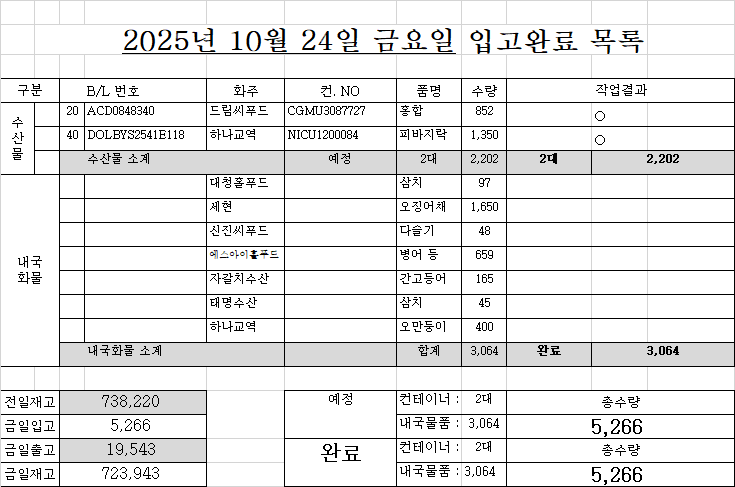
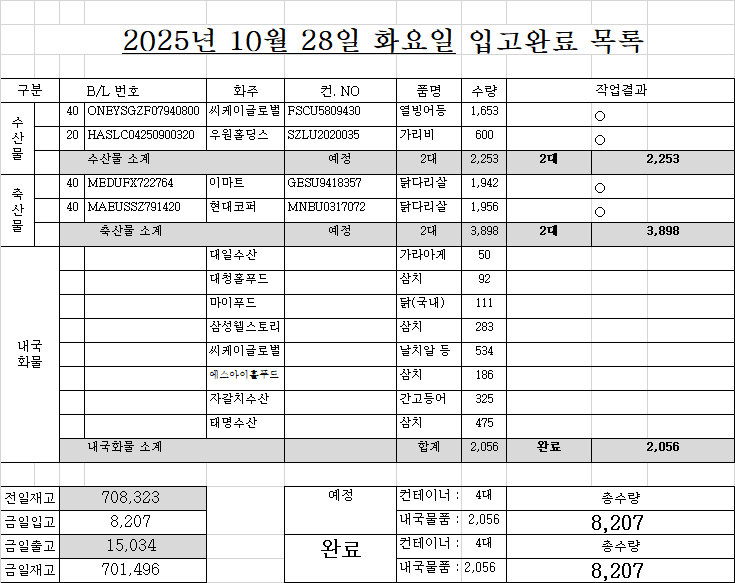
ㄴㅇㄹㄴㅇㄹㄴㅇㄹㄴㅇㄹ

diff --git a/list.html b/list.html
@@ -99,9 +99,9 @@
         10.20월 선적예정 (10.13월,검사)
       </div>
     </div>
-    <div><button>10월24일</button><button></button>
-      <div class="일별메모모두감싸기">강해무역 삼치 10/4,11입고분, 3F,4F,5F,8F 688개, 베트남 <br>
-        10.16(목)검사, 24일(금) 선적예정, 개근내역서 수품원 제출(금까지)
+    <div><button>10월28일</button><button></button>
+      <div class="일별메모모두감싸기">
+        선민관세사, 세현꺼 베트남 갈거 있다고 주소 물어봄
       </div>
     </div>
     <div><button>월일</button><button></button>
@@ -122,69 +122,89 @@
 </div>
 <!-- ★★★★★★ 따로 빼 놔야한다. 복붙하면 첫칸 비어도 되는데, 여기서는 첫칸비우면 당겨진다. -->
 <!-- ★ 엑셀범위를 브라우저 textarea에 붙여넣으면 첫셀 비어도 제대로 되는데... HTML에 붙여놓은 자료는 처음셀이 비어있으면 당겨짐 -->
-<div class="d-none" id="원본text_리스트1부터w요약열까지">작성	면허	B/LNO.	화주	컨테이너NO.	품명	수량	반입NO.	입항일	구분	도착일	도착시간	구분	운.도VBA	10/24 금 16:27	화찰BL	화찰 선명	화물관리번호	화찰수량	화찰중량	화찰입항	리스트시트기준열	
-1		041FX04737	우원홀딩스	WHLU7422502	새우	708 	BPT감만	10/23	1			20 	BPT감만			WAN HAI 289					10/24 금 16:27	
-1	○	MEDUFX722632	이마트	MSCU7432975	닭다리	1,943 	PNC	10/22	2				PNC		MEDUFX722632	MSC SHAULA	25MSCU4369I-0062-	1,943 	24,263.41 	2025.10.23	조회정보	
-1	○	MEDUFX722657	이마트	TEMU9235260	닭다리	1,939 	PNC	10/22	2				PNC		MEDUFX722657	MSC SHAULA	25MSCU4369I-0065-	1,939 	24,213.46 	2025.10.23	적재	57 
-		HDMUSAOA91343209	마이푸드	HMMU5420623	닭다리살	1,960 	HPNT	10/12	2				HPNT			HMM OCEAN					4,617 	3줄
-		HDMUSAOA91343212	마이푸드	HDMU5568356	닭다리살	1,960 	HPNT	10/12	2				HPNT			HMM OCEAN					6,156 	4줄
-		HCPUS2510056	KSL교역	SZLU9537930	삼치,대구포	2,080 	????(ONE).BPT신선대	10/25	1	ONE			????(ONE).BPT신선대			KMTC DALIAN					7,695 	5줄
-		EGLV360500135103	대상 주식회사	EMCU5608156	닭장각	1,568 	BPT감만	10/25	2				BPT감만			RDO FAVOUR					9,234 	6줄
-		EGLV360500135112	수월한	EMCU5375780	닭다리살	1,960 		10/25	2							 RDO FAVOUR						
-		MAEUJBS284580	수월한	MNBU3833719	닭다리살	1,958 	PNC	10/25	2				PNC			GRASMERE MAERSK					출고/입고 4주간	
-		MAEUJBS284918	대상 주식회사	MNBU3486116	닭발	1,566 	PNC	10/26	2				PNC			NORDAGER MAERSK					1일 7/5	5일줄
-		ONEYSAOF44750704	대상 주식회사	TCLU1352196	닭장각	1,568 	DGT	10/26	2				DGT			HYUNDAI PREMIUM(SX2)					15,712 	51
-		ONEYSAOF46695303	대상 주식회사	TTNU8874802	닭근위	1,568 	DGT	10/26	2				DGT			HYUNDAI PREMIUM(SX2)					14,483 	47.1
-		ONEYSAOF44750700	수월한	BMOU9857022	닭다리살	1,960 	DGT	10/26	2				DGT			HYUNDAI PREMIUM(SX2)					내국제외	
-		ONEYSAOF44750703	수월한	FSCU5793570	닭다리살	1,960 	DGT	10/26	2				DGT			HYUNDAI PREMIUM(SX2)					구분	대수
-		MEDUFX722764	이마트	GESU9418357	닭다리살	1,942 		10/26	2												수산	23
-		MEDUJJ087892	대상 주식회사	MEDU9620031	닭다리살	1,967 		10/27	2							SEASPAN ZAMBEZI					축산	39
-		ONEYSAOF42906801	수월한	SEGU9276513	닭다리살	1,960 	PNIT	10/27	2				PNIT			BUENAVENTURA EXPRESS					합계	62
-		DJSCYOK250003368	씨케이글로벌	DJLU2900218	연어알	134 		10/27	1			20 										
-		MAEUSSZ791420	현대코퍼	MNBU0317072	닭다리살	1,956 		10/27	2												화주별 요약	
-		KHHBUS2510013	바다사랑	FSCU5840517	꽁치	2,300 		10/28	1												화주	대수
-		KHHBUS2510013	바다사랑	SEGU9801680	꽁치	2,315 		10/28	1												수월한	13
-		KHHBUS2510014	바다사랑	FSCU5840137	꽁치	2,330 		10/28	1												씨케이글로벌	7
-		KHHBUS2510014	바다사랑	FSCU5841827	꽁치	2,330 		10/28	1												바다사랑	6
-		KHHBUS2510014	바다사랑	OTPU6604930	꽁치	2,340 		10/28	1												대상 주식회사	5
-		KHHBUS2510014	바다사랑	OTPU6608370	꽁치	2,310 		10/28	1												우원홀딩스	4
-		ONEYSGZF07940800	씨케이글로벌	FSCU5809430	열빙어등	1,653 		10/28	1							ONE FUTURE					이마트	4
-		HDMUSAOA02443500	아스트로스	HMMU5425815	닭발	1,500 	HPNT	10/28	2				HPNT			HYUNDAI BRAVE					대성무역	4
-		HDMUSAOA15124100	아스트로스	HMMU5463055	닭발	1,500 	HPNT	10/28	2				HPNT			HYUNDAI BRAVE					참트레이딩	4
-		NSSLBKBSC2500494	우원홀딩스	CAXU3009690	갑오징어	1,563 	BPT신선대	10/28	1			20 	BPT신선대			PEGASUS PROTO					현대코퍼	3
-		HLCUPN4250851459	대성무역	HLBU6093411	닭발	1,567 		10/29	2												삼영수산	3
-		XMN5A1476400	더파이러츠	FCGU6130513	새우	1,800 		10/29	1												마이푸드	2
-		HLCUSCL250846299	동천씨푸드	HLBU9169038	오징어	1,200 	PNIT	10/29	1				PNIT			MSC LIVORNO					아스트로스	2
-		MAEU259339952	참트레이딩	MNBU3744397	닭다리살	1,916 	PNC	10/29	2				PNC			MAERSK GAIRLOCH					현대그린	2
-		MEDUJJ076341	현대코퍼	MEDU9646530	닭다리살	1,980 		10/29	2												KSL교역	1
-		MEDUJJ081291	현대코퍼	MEDU9010297	닭다리살	1,980 		10/29	2												더파이러츠	1
-		HDMUSGNA01489200	우원홀딩스	TEXU9031887	새우	820 		10/30	1			20 									동천씨푸드	1
-		DJSCBKK250002010	우원홀딩스	SZLU2069288	새우	1,309 		10/31	1			20 									합계	62
-		MEDUFX741061	이마트	CXRU1476785	닭다리살	1,939 		10/31	2													
-		MAEUJBS282051	대성무역	TTNU8988256	닭다리살	1,958 		11/1	2				챔프(EZ신항).BNCT			HICAGO EXPRESS						
-		MAEUSSZ793009	대성무역	MNBU4423473	닭다리살	1,980 		11/1	2													
-		MAEUJBS285601	수월한	MNBU9096286	닭다리살	1,953 		11/1	2													
-		COSU6428999351	씨케이글로벌	TTNU8195632	열빙어알	1,100 		11/1	1							COSCO SHIPPING ROSE						
-		COSU6429650460	씨케이글로벌	TEMU9471100	열빙어알	1,100 		11/1	1							COSCO SHIPPING AZALEA						
-		HDMUOSLA28800300	씨케이글로벌	HMMU5402105	열빙어알	1,100 		11/1	1							HMM LE HAVRE						
-		HDMUOSLA72215200	씨케이글로벌	HMMU5496418	열빙어알	1,100 		11/1	1							HMM LE HAVRE						
-		MAEUJBS282045	대성무역	MNBU0546910	닭발	1,566 		11/2	2													
+<div class="d-none" id="원본text_리스트1부터w요약열까지">작성	면허	B/LNO.	화주	컨테이너NO.	품명	수량	반입NO.	입항일	구분	도착일	도착시간	구분	운.도VBA	10/28 화 16:25	화찰BL	화찰 선명	화물관리번호	화찰수량	화찰중량	화찰입항	리스트시트기준열	
+1	○	HCPUS2510056	KSL교역	SZLU9537930	삼치,대구포	2,080 	????(ONE).BPT신선대	10/27	1	ONE			????(ONE).BPT신선대		HCPUS2510056	KMTC DALIAN	25KMTC3867I-5053-0001	2,080 	21,840.00 	2025.10.27	10/28 화 16:25	
+1	○	HDMUSAOA91343209	마이푸드	HMMU5420623	닭다리살	1,960 	HPNT	10/12	2				HPNT		HDMUSAOA91343209	HMM OCEAN	25HDMUA469I-0044-	1,960 	24,500.00 	2025.10.10	조회정보	
+1	○	HDMUSAOA91343212	마이푸드	HDMU5568356	닭다리살	1,960 	HPNT	10/12	2				HPNT		HDMUSAOA91343212	HMM OCEAN	25HDMUA469I-0045-	1,960 	24,500.00 	2025.10.10	적재	57 
+1	○	MAEUJBS284580	수월한	MNBU3833719	닭다리살	1,958 	PNC	10/26	2				PNC		MAEUJBS284580	GRASMERE MAERSK	25MAEU0710I-1207-	1,958 	24,583.29 	2025.10.26	4,617 	3줄
+1	○	EGLV360500135103	대상 주식회사	EMCU5608156	닭장각	1,568 	BPT감만	10/27	2	10/28	13:22		BPT감만		EGLV360500135103	RDO FAVOUR	25KRCL0041I-1955-	1,568 	24,304.00 	2025.10.27	6,156 	4줄
+1	○	EGLV360500135112	수월한	EMCU5375780	닭다리살	1,960 	BPT감만	10/27	2				BPT감만		EGLV360500135112	RDO FAVOUR	25KRCL0041I-1956-	1,960 	24,500.00 	2025.10.27	7,695 	5줄
+2	○	SMLMBKK5A5363400	OK푸드	FBIU5774796	닭다리	1,916 		10/28	2				?????.BPT신선대		SMLMBKK5A5363400	PANCON BRIDGE	25PCLUBK12I-3304-	1,916 	24,103.28 	2025.10.28	9,234 	6줄
+2	○	SMLMBKK5A5469400	뉴아시아	FBIU5775956	닭날개	1,950 		10/28	2				?????.BPT신선대		SMLMBKK5A5469400	PANCON BRIDGE	25PCLUBK12I-3303-	1,950 	24,453.00 	2025.10.28		
+2	○	ONEYSAOF46695303	대상 주식회사	TTNU8874802	닭근위	1,568 	DGT	10/28	2				DGT		ONEYSAOF46695303	HYUNDAI PREMIUM	25HDMUA542I-5018-	1,568 	24,304.00 	2025.10.28	출고/입고 4주간	
+2	○	ONEYSAOF44750700	수월한	BMOU9857022	닭다리살	1,960 	DGT	10/28	2				DGT		ONEYSAOF44750700	HYUNDAI PREMIUM	25HDMUA542I-5003-	1,960 	24,500.00 	2025.10.28	1일 7/5	5일줄
+2	○	ONEYSAOF44750703	수월한	FSCU5793570	닭다리살	1,960 	DGT	10/28	2				DGT		ONEYSAOF44750703	HYUNDAI PREMIUM	25HDMUA542I-5006-	1,960 	24,500.00 	2025.10.28	16,382 	53.2
+		MAEUJBS284918	대상 주식회사	MNBU3486116	닭발	1,566 	PNC	10/27	2				PNC			NORDAGER MAERSK					14,590 	47.4
+		MEDUJJ087892	대상 주식회사	MEDU9620031	닭다리살	1,967 	PNIT	10/27	2				PNIT			BUENAVENTURA EXPRESS					내국제외	
+		ONEYSAOF42906801	수월한	SEGU9276513	닭다리살	1,960 	PNIT	10/27	2				PNIT			BUENAVENTURA EXPRESS					구분	대수
+		041FX04737	우원홀딩스	WHLU7422502	새우	708 	BPT감만	10/27	1			20 	BPT감만			WAN HAI 289					수산	30
+		ONEYSAOF44750704	대상 주식회사	TCLU1352196	닭장각	1,568 	DGT	10/28	2				DGT			HYUNDAI PREMIUM(SX2)					축산	52
+		DJSCYOK250003368	씨케이글로벌	DJLU2900218	연어알	134 	BPT신선대	10/28	1			20 	BPT신선대			PEGASUS TERA					합계	82
+		SAO500604604	아스트로스	PCIU6128283	닭다리	1,960 		10/28	2							X PRESS PHOENIX						
+		ASC0484468	우원	CGMU3066895	새우	1,001 		10/28	1			20 	?????.DGT			HAIAN WEST(KI8)					화주별 요약	
+		HLCUPN4250851459	대성무역	HLBU6093411	닭발	1,567 	PNC	10/29	2				PNC			MAERSK GAIRLOCH					화주	대수
+		XMN5A1476400	더파이러츠	FCGU6130513	새우	1,800 	?????(SM).허치슨감만	10/29	1	SM			?????(SM).허치슨감만			PEGASUS DREAM					수월한	18
+		MAEUJBS285601	수월한	MNBU9096286	닭다리살	1,953 	PNIT	10/29	2				PNIT			OSAKA EXPRESS					뉴아시아	6
+		SSZ1666603	아스트로스	CGMU5303640	닭다리	1,875 		10/29	2				?????.BNCT			CMA CGM CORAL					씨케이글로벌	6
+		HDMUSGNA97915201	우원	TEXU9031090	새우	846 		10/29	1			20 	?????.HPNT			HAIAN OPUS					바다사랑	6
+		HDMUSGNA97915202	우원	TEXU9034464	새우	769 		10/29	1			20 	?????.HPNT			HAIAN OPUS					대상 주식회사	5
+		HDMUSGNA97915203	우원	TEXU9031866	새우	660 		10/29	1			20 	?????.HPNT			HAIAN OPUS					아스트로스	5
+		HDMUSGNA01489200	우원홀딩스	TEXU9031887	새우	820 	HPNT	10/29	1			20 	HPNT			HAIAN OPUS					대성무역	5
+		MAEU259339952	참트레이딩	MNBU3744397	닭다리살	1,916 	PNC	10/29	2				PNC			MAERSK GAIRLOCH					삼영수산	5
+		NSSLADLC25J00182	하나교역	TEXU9025982	재첩살	1,200 		10/29	1			20 									우원홀딩스	4
+		HLCUSCL250846299	동천씨푸드	HLBU9169038	오징어	1,200 	PNIT	10/30	1				PNIT			MSC LIVORNO					우원	4
+		KHHBUS2510013	바다사랑	FSCU5840517	꽁치	2,300 	BPT감만	10/30	1				BPT감만			IBN AL ABBAR					참트레이딩	4
+		KHHBUS2510013	바다사랑	SEGU9801680	꽁치	2,315 	BPT감만	10/30	1				BPT감만			IBN AL ABBAR					마이푸드	2
+		KHHBUS2510014	바다사랑	FSCU5840137	꽁치	2,330 	BPT감만	10/30	1				BPT감만			IBN AL ABBAR					현대코퍼	2
+		KHHBUS2510014	바다사랑	FSCU5841827	꽁치	2,330 	BPT감만	10/30	1				BPT감만			IBN AL ABBAR					현대그린	2
+		KHHBUS2510014	바다사랑	OTPU6604930	꽁치	2,340 	BPT감만	10/30	1				BPT감만			IBN AL ABBAR					KSL교역	1
+		KHHBUS2510014	바다사랑	OTPU6608370	꽁치	2,310 	BPT감만	10/30	1				BPT감만			IBN AL ABBAR					OK푸드	1
+		HDMUSAOA02443500	아스트로스	HMMU5425815	닭발	1,500 	HPNT	10/30	2				HPNT			HYUNDAI BRAVE					더파이러츠	1
+		HDMUSAOA15124100	아스트로스	HMMU5463055	닭발	1,500 	HPNT	10/30	2				HPNT			HYUNDAI BRAVE					하나교역	1
+		HDMUSAOA71095000	아스트로스	HDMU5580829	닭다리	1,875 		10/30	2				?????.HPNT			HYUNDAI BRAVE					동천씨푸드	1
+		MEDUFX741061	이마트	CXRU1476785	닭다리살	1,939 	BCT	10/30	2				BCT			MSC ELAINE					이마트	1
+		MEDUJJ076341	현대코퍼	MEDU9646530	닭다리살	1,980 		10/30	2							MSC ELAINE 					동일냉장	1
+		MEDUJJ081291	현대코퍼	MEDU9010297	닭다리살	1,980 		10/30	2							MSC ELAINE 					CHC	1
+		SNKO190250903331	뉴아시아	FBIU5094079	닭날개	1,925 		10/31	2												합계	82
+		SNKO190251000498	동일냉장	HALU8500174	닭날개	1,925 		10/31	2													
+		DJSCBKK250002010	우원홀딩스	SZLU2069288	새우	1,309 	BPT신선대	10/31	1			20 	BPT신선대			SKY SUNSHINE						
+		SITEDAPU068993	CHC	SITU6655949	새우	896 		11/1	1			20 				SITC FANGCHENG						
+		HASLS22250902281	뉴아시아	FBIU5372009	닭날개	1,925 		11/1	2													
+		NSSLBKBSC2500494	우원홀딩스	CAXU3009690	갑오징어	1,563 	BPT신선대	11/1	1			20 	BPT신선대			PEGASUS PROTO						
+		HDMUOSLA28800300	씨케이글로벌	HMMU5402105	열빙어알	1,100 	HJNC	11/2	1				HJNC			HMM LE HAVRE						
+		HDMUOSLA72215200	씨케이글로벌	HMMU5496418	열빙어알	1,100 	HJNC	11/2	1				HJNC			HMM LE HAVRE						
+		HASLS22251000277	뉴아시아	FBIU5102847	닭다리살	1,940 		11/3	2													
+		MAEUJBS282045	대성무역	MNBU0546910	닭발	1,566 		11/3	2							CHICAGO EXPRESS						
+		MAEUJBS282051	대성무역	TTNU8988256	닭다리살	1,958 		11/3	2				챔프(EZ신항).BNCT			CHICAGO EXPRESS						
+		COSU6428999351	씨케이글로벌	TTNU8195632	열빙어알	1,100 		11/3	1							COSCO SHIPPING ORCHID						
+		ONEYSAOF48854904	뉴아시아	ONEU9276906	닭다리살	1,960 		11/5	2													
+		ONEYSAOF48854907	뉴아시아	TLLU1208417	닭다리살	1,960 		11/5	2													
+		ONEYSAOF48854905	대성무역	TTNU8748569	닭다리	1,960 		11/5	2													
 		HLCULI3250925852	삼영수산	HLBU9250181	오징어	1,100 		11/5	1													
 		HLCULI3250925852	삼영수산	TTNU8246600	오징어	1,100 		11/5	1													
 		HLCULI3250925969	삼영수산	HLXU8791276	오징어	1,150 		11/5	1													
+		ONEYSAOF48854900	수월한	ONEU9425194	닭다리살	1,960 		11/5	2													
+		EGLV360500138421	수월한	EMCU5367927	닭다리살	1,960 		11/7	2													
+		EGLV360500139249	수월한	EMCU5521117	닭다리살	1,960 		11/7	2													
 		HDMUOSLA09230000	씨케이글로벌	HDMU5585121	열빙어알	1,100 		11/8	1							HMM GARAM						
 		MEDUHI450245	수월한	OTPU6363920	닭발	1,566 		11/13	2													
 		MEDUHI451939	수월한	TGHU9966420	닭다리살	1,939 		11/13	2													
 		MEDUHI452325	수월한	SZLU9251020	닭다리살	1,958 		11/13	2													
 		MEDUHI454669	수월한	GESU9465533	닭다리살	1,940 		11/13	2													
 		MEDUHI456607	수월한	MEDU9132253	닭다리살	1,939 		11/13	2													
+		MAEUSSZ793009	대성무역	MNBU4423473	닭다리살	1,980 		11/15	2							NAVIOS UNISON						
 		MEDUFX795158	수월한	SZLU9395162	닭다리살	1,917 		11/15	2													
+		HDMUSAOA15376407	참트레이딩	HMMU5514698	닭장각	1,568 		11/15	2							HYUNDAI FORCE 						
+		LMM0550707	삼영수산	FBIU5075525	오징어	1,100 		11/19	1							CMA CGM XIAMEN						
+		LMM0550709	삼영수산	TRIU8124818	오징어	1,150 		11/19	1							CMA CGM XIAMEN						
 		MAEUJBS287339	수월한	MMAU1132011	닭다리살	1,918 		11/19	2													
+		COSU6429650460	씨케이글로벌	TEMU9471100	열빙어알	1,100 		11/22	1							COSCO FORTUNE						
 		HLCUSS5250904671	참트레이딩	BMOU9253059	닭다리살	1,916 		11/26	2							SEASPAN BRAVO						
 		ONEYSAOF51867700	현대그린	ONEU9279762	닭다리살	1,916 		12/1	2													
 		ONEYSAOF51902400	현대그린	ONEU9121890	닭다리살	1,916 		12/1	2													
 		HLCUSS5250904682	참트레이딩	HLBU9520266	닭다리살	1,916 		12/3	2							IQUIQUE EXPRESS						
-		HDMUSAOA15376407	참트레이딩	HMMU5514698	닭장각	1,568 			2													
+		MAEUJBS288307	수월한	MNBU0304856	닭다리	1,900 		12/9	2													
+		MAEUJBS289850	수월한	SUDU8246685	닭다리	1,939 		12/9	2													
 </div>
 <div class="d-none" id="원본text_입항관리도크부터도착항우측까지">도크	화주	컨테이너	작업순서	상세내용 참조		운송사	물품		06/05 목 16:15	B/L	도착항	상세내용
 </div>   

diff --git a/excel_코드점검.html b/excel_코드점검.html
@@ -254,9 +254,16 @@
   <div id="관심" class="d-none 캔버스">
     <div class="개별카테고리" id="관심1">
       <span class="개별카테고리세로1"></span><span class="개별카테고리세로2"></span>
-
+      <div>
+      <h6 class="fw-bold" title="ai">AI플랫폼</h6>
+      </div>
+      <div>
+        
+      </div>
+      <div>
+        
+      </div>
     </div>
-
   </div>
   <div id="java전체" class="d-none 캔버스">
     <div class="개별카테고리" id="기초이해">
@@ -287,7 +294,7 @@
 
       </div>
       <div>
-
+        <h6 class="fw-bold" title="좌표">좌표</h6>
 
         <h6 class="fw-bold"></h6>
         <h6 class="fw-bold blueviolet"></h6>
@@ -2183,7 +2190,43 @@
     </div>
   </div>
   <div title="관심">
+    <div id="ai" class="대체2줄">
+      <h6 class="대체2줄세로1h6"></h6>
+      <div>
+        <pre class="fw-bold">
+AI 플랫폼은 머신러닝 모델을 개발하고 학습, 실행하기 위한 통합 기술 모음으로, 데이터 분석, 예측, 자동화 기능 등을 제공합니다. 
+이러한 플랫폼을 통해 기업이나 개발자는 AI 기술을 활용한 제품 및 서비스를 더 쉽고 빠르게 만들 수 있으며, 
+대표적인 예로는 마이크로소프트의 Azure, IBM 왓슨, 구글의 Vertex AI 등이 있습니다. 
+국내에서는 한국지능정보사회진흥원(NIA)이 운영하는 **AI 허브**와 같이 연구자와 개발자에게 AI 인프라를 제공하는 플랫폼도 있습니다. 
 
+AI 플랫폼의 주요 기능 및 종류
+머신러닝 및 AI 모델 개발: 지식 근로자가 AI 플랫폼 도구를 사용해 데이터를 더 빠르고 정확하게 분석하고 예측 모델을 만들 수 있습니다.
+MLOps(머신러닝 운영): 모델의 개발부터 배포, 운영까지 전 과정을 관리하는 기술이 통합되어 있습니다.
+다양한 서비스: 자연어 처리, 이미지 인식 등 특정 AI 기술을 활용한 제품이나 서비스를 개발하는 데 필요한 도구를 제공합니다.
+기업용 플랫폼: 기업 맞춤 AI 지식 관리, 에이전트, 차트 분석 등 폐쇄된 보안 환경에서 다양한 기능을 제공하는 기업용 플랫폼이 등장하고 있습니다.
+산업용 플랫폼: 산업 현장의 데이터를 수집하고 AI로 분석하여 이상 감지, 고장 예측 등을 수행하는 데 활용됩니다.
+엣지 AI 플랫폼: 사물 인터넷(IoT) 장치나 엣지 디바이스에서 AI를 실행하기 위한 플랫폼으로, Armv9과 같은 엣지 AI 플랫폼이 대표적입니다. 
+국내 AI 플랫폼 사례
+AI 허브: 과학기술정보통신부와 한국지능정보사회진흥원이 운영하며, AI 데이터, API, 컴퓨팅 자원 등을 제공하여 
+국민 누구나 활용할 수 있도록 지원합니다.
+카카오 AI 에이전트 플랫폼: 카카오는 행정안전부와 협력하여 카카오톡 내 'AI 국민비서' 같은 공공 서비스 혁신을 위한 플랫폼을 선보일 계획입니다.
+다글로: AI를 활용해 음성 및 텍스트를 자동으로 수집, 변환해주는 서비스로, PC와 모바일 환경 모두 지원합니다.
+에이아이플랫폼: 블록체인·빅데이터 기반의 인공지능 응용 소프트웨어를 개발하는 기업입니다. 
+
+언제든 최고의 Gemini
+
+Google Gemini
+https://www.gemini.google
+Google AI 최대한 활용하기 — Google AI를 최대한 활용해 소프트웨어 개발, 콘텐츠 제작, 조사에 혁신을 이루어보세요. 
+2.5 Pro와 Deep Research에 최고 수준으로 액세스하고 Veo 3.1로 동영상을 생성해 보세요.
+최상급 2.5 Pro 액세스 · 가장 강력한 AI 모델 사용하기 · Gemini for Business | Google
+        </pre>
+
+      </div>
+      <div>
+
+      </div>
+    </div>
   </div>
   <div title="모음">
     <div id="설명_캔버스_개별카테고리_h6의title과id순서">
@@ -4228,6 +4271,7 @@ console.log(빽틱); // 딸라안에 직접 삼항연산자 : 맞다
         <h6 class="fw-bold">8. 프로토타입, 인스턴스, 프로토타입 상속</h6>
       </div>
     </div>
+
     <div id="js설명_객체변수자료형" class="대체2줄">
       <h6 class="대체2줄세로1h6"></h6>
       <div>
@@ -5914,6 +5958,67 @@ console.log(셑); // Set(4) {0, 1, 2, 3}        </pre>
 
       </div>
       <br><br><br><br><br><br><br>
+    </div>
+    <div id="좌표" class="대체2줄">
+      <h6 class="대체2줄세로1h6"></h6>
+      <div>
+        <div id="좌표예제" class="align-top" style="border:10px solid black;display:inline-block;width:300px;height:145px;margin:10px;padding:0px 5px;">
+          요소id="좌표예제"<br>
+          style="border:10px solid black;<br>
+          display:inline-block;width:300px;<br>
+          height:145px;margin:10px;<br>
+          padding:0px 5px;"
+        </div>
+        <div class="d-inline-block fw-bold align-top">
+          getComputedStyle(document.querySelector('header')).height // 44px <br>
+          <span class="blueviolet">요소의 맨 위를 클릭했다면,</span><br>
+          e.screenY : 128 (테두리 맨 위의 위치)<br>
+          e.pageY : 54 (테두리 맨 위의 위치 : 스크롤이 있다면 변경될 것이다.)<br>
+          e.clientY : 54 (테두리 맨 위의 위치 : 스크롤이 있다면 변경될 것이다.)<br>
+          e.offsetY : -10 (content기준 : content보다 위를 클릭했으므로 -10)<br>
+        </div>
+        <h6><a href="https://velog.io/@klloo/JavaScript-%EB%A7%88%EC%9A%B0%EC%8A%A4-%ED%8F%AC%EC%9D%B8%ED%84%B0-%EC%A2%8C%ED%91%9Cscreen-page-client-offset" target="_blank">좌표</a> </h6>
+        <h6 class="fw-bold">• scrollX/Y 는 window 객체의 속성이다. <span class="blueviolet">window.scrollY</span></h6>
+        <h6 class="fw-bold">• 마우스 이벤트에서 변수로 받은 e 의 정보중 좌표에 관한 정보에는 screenX/Y, pageX/Y, clientX/Y, offsetX/Y 가 있다.</h6>
+        <h6 class="fw-bold blueviolet" style="margin-left:12px;">※ e.target은 요소일 것인데 요소의 속성은 아니다. </h6>
+        <h6 class="fw-bold blueviolet">• 요소의 좌표(e.target) : let 요소좌표=document.querySelector('#좌표예제').getBoundingClientRect(); <span style="color:black">창 기준(screen)</span></h6>
+        <h6 class="fw-bold blueviolet" style="margin-left:12px;">※ 스크롤이 있다면 영향을 받을 것이다.</h6>
+        <h6 class="fw-bold" style="margin-left:11px;">요소.bottom : 199</h6>
+        <h6 class="fw-bold" style="margin-left:11px;">요소.height : 145</h6>
+        <h6 class="fw-bold" style="margin-left:11px;">요소.left : 20</h6>
+        <h6 class="fw-bold" style="margin-left:11px;">요소.right : 320</h6>
+        <h6 class="fw-bold" style="margin-left:11px;">요소.top : 54 <span class="blueviolet">-- header 높이 : 44px, margin : 10px, 합계 : 54px</span></h6>
+        <h6 class="fw-bold" style="margin-left:11px;">요소.width : 300</h6>
+        <h6 class="fw-bold" style="margin-left:11px;">요소.x : 20</h6>
+        <h6 class="fw-bold" style="margin-left:11px;">요소.y : 54</h6>
+
+
+        <h6 class="fw-bold blueviolet" style="margin-left:20px;"></h6>
+        <h6 class="fw-bold" style="margin-left:15px;"></h6>
+        <pre class="fw-bold">
+자바스크립트에서 좌표는 웹 요소의 위치를 지정하거나, 마우스 이벤트를 처리하는 등 다양하게 활용됩니다. 
+주요 좌표 체계로는 **화면 기준(window-relative)**과 **문서 기준(document-relative)**이 있으며, 
+요소의 위치를 얻기 위해 getBoundingClientRect()와 같은 메서드를 사용합니다. 
+주요 좌표 체계
+화면 기준(window-relative): 브라우저 창의 왼쪽 상단 모서리를 기준 $(0,0)$으로 하여 좌표를 계산합니다. 
+clientX, clientY 속성으로 사용할 수 있습니다.
+문서 기준(document-relative): 문서의 가장 왼쪽 상단 모서리를 기준 $(0,0)$으로 하여 계산합니다. 
+pageX, pageY 속성으로 사용할 수 있으며, 스크롤을 해도 값이 변하지 않습니다.
+모니터 기준(screen-relative): 사용자의 모니터 전체 화면의 왼쪽 상단 모서리를 기준 $(0,0)$으로 하여 계산합니다. 
+screenX, screenY 속성으로 사용할 수 있습니다. 
+요소의 위치 좌표 구하기
+getBoundingClientRect(): 특정 요소의 위치와 크기를 창 기준으로 반환합니다. 
+반환값(DOMRect 객체)의 top, left, right, bottom, width, height 속성을 통해 좌표와 크기를 얻을 수 있습니다. 
+스크롤이 포함된 절대 위치 구하기
+window.scrollX 또는 window.scrollY: 현재 스크롤된 양을 가져옵니다.
+pageX = element.getBoundingClientRect().left + window.scrollX
+pageY = element.getBoundingClientRect().top + window.scrollY
+getBoundingClientRect()로 얻은 창 기준 좌표에 현재 스크롤 값을 더하면 전체 문서에서의 절대 위치를 구할 수 있습니다. 
+        </pre>
+      </div>
+      <div>
+
+      </div>
     </div>
     
     <div id="js_정렬_필터_인덱스찾기" class="대체3줄">

diff --git a/portal/assets/js/excel_코드점검.js b/portal/assets/js/excel_코드점검.js
@@ -1,16 +1,14 @@
 let 전체변수h6title='';
 function 특정id편집() {
-  전체변수h6title ='js_빽틱사용법' //원래는 h6의 title이다.
+  전체변수h6title ='좌표' //원래는 h6의 title이다.
   전체대체에셑팅();
 }
-
-
 function 연습() {
-  // <div id='있는아이디'>있는아이디 innerHTML</div>
-  let 결과=document.querySelector('#없는아이디');
-  console.log(결과); // null
-  console.log(결과?.innerHTML);
-  //console.log(결과.innerHTML); // 에러남
+  let 좌표예제=document.querySelector('#좌표예제');
+  console.log(좌표예제.clientHeight);
+  console.log(좌표예제.clientLeft);
+  console.log(좌표예제.clientTop);
+  console.log(좌표예제.clientWidth);
 
 }
 function 전체대체에셑팅() {
@@ -136,14 +134,39 @@ function 카테고리배치(e) {
 
 var 리스너_바디=document.querySelector('body');
 function 리스너_바디_click(e) {
+  if (e.target.id=='좌표예제') {
+      console.log(e.screenY);
+      console.log(e.pageY);
+      console.log(e.clientY);
+      console.log(e.offsetY);
+
+
+      //let 요소좌표=document.querySelector('#좌표예제').getBoundingClientRect();
+      //console.log(요소좌표);
+      //console.log(요소좌표.y);
+      //console.log(요소좌표.top);
+      //console.log(요소좌표.height);
+      //console.log(요소좌표.bottom);
+      
+      //console.log(요소좌표.left);
+      //console.log(요소좌표.width);
+      
+
+
+     return;
+    }
   var 부모요소=e.target; //자신이 body일수 있으므로 자신부터 확인함 4 => 5
   var 부모태그확인=true;
   for (var i=0; i<5; i++) {if(부모요소.tagName=='BODY') {//console.log('0~4까지확인 i=' + i + ', BODY');
     부모태그확인=false;break;};부모요소=부모요소.parentElement;}
   //캔버스바디 안의 h6 클릭시 : title을 id로 갖는 요소가 있을때 전체대체에 가져옴 (위치조건 : 부모태그확인[에러만 방지 100%위치 확인 안됨 ex)더 안쪽의 요소일때])
   if (부모태그확인 && e.target.parentElement.parentElement.classList.contains('개별카테고리')) {
+
     전체변수h6title=e.target.title;
     전체대체에셑팅();
   }
 }
-리스너_바디.addEventListener('click',리스너_바디_click)
+리스너_바디.addEventListener('click',리스너_바디_click);
+
+
+

diff --git a/ycy최종.html b/ycy최종.html
@@ -923,7 +923,10 @@
 
   </div><!-- 당번숨김_안에_저장중 마지막은 쉼표(,) 기록중의 마지막은 쉼표 없음!! -->
   <div id="당번숨김_안에_기록중">
-1182_2025-07-26_1_13_21_25_28_31_22,1183_2025-08-02_4_15_17_23_27_36_31,1184_2025-08-09_14_16_23_25_31_37_42,1185_2025-08-16_6_17_22_28_29_32_38
+1182_2025-07-26_1_13_21_25_28_31_22,1183_2025-08-02_4_15_17_23_27_36_31,1184_2025-08-09_14_16_23_25_31_37_42,1185_2025-08-16_6_17_22_28_29_32_38,
+1186_2025-08-23_2_8_13_16_23_28_35,1187_2025-08-30_5_13_26_29_37_40_42,1188_2025-09-06_3_4_12_19_22_27_9,1189_2025-09-13_9_19_29_35_37_38_31,
+1190_2025-09-20_7_9_19_23_26_45_33,1191_2025-09-27_1_4_11_12_20_41_2,1192_2025-10-04_10_16_23_36_39_40_11,1193_2025-10-11_6_9_16_19_24_28_17,
+1194_2025-10-18_3_13_15_24_33_37_2,1195_2025-10-25_3_15_27_33_34_36_37
   </div>
 </div>
 
